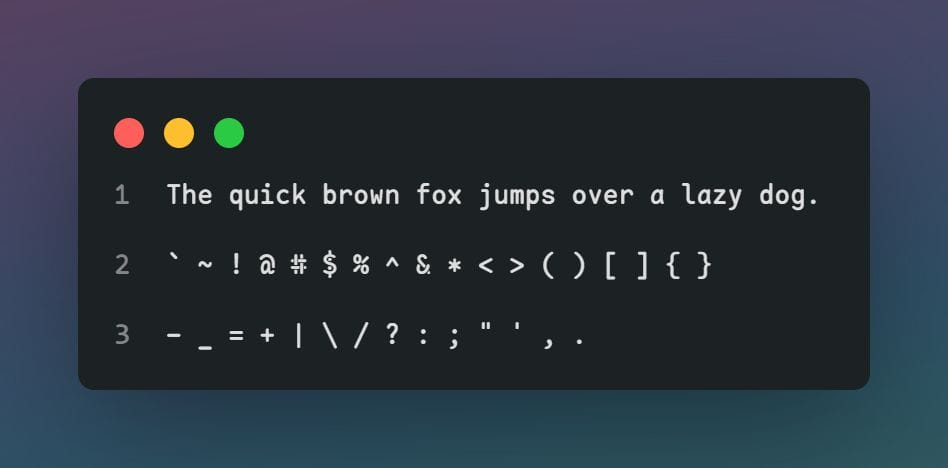
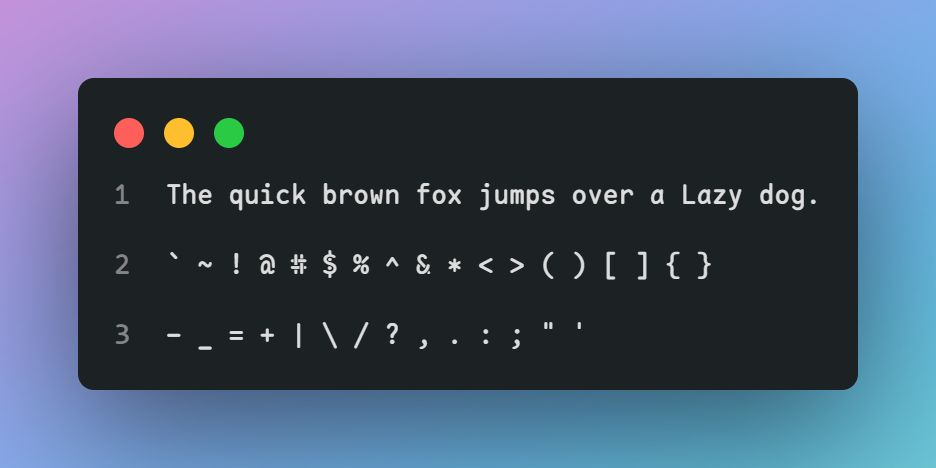
update readme
Former-commit-id: a6a6a1430561980ad50f21868039677fc452887e

diff --git a/README.md b/README.md
@@ -6,24 +6,31 @@ version 2
 
 release
 
+[国内地址](https://gitee.com/subframe7536/Maple/releases/v2.0)
+
 ## only self-use
 
 self-use monospace and sans font with round corner for coding and reading
+
+自用的圆角等宽字体和圆角 UI 字体，用于码代码和系统/浏览器全局
 
 ## Maple Code
 
 simplified programming font, only contains latin. some normal punctuations and arrows and customed icons
 
+精简版的等宽字体，只有英数和一些标点，还有一些自定义的图案
+
 - inspired by [Source Code Pro](https://github.com/adobe-fonts/source-code-pro) and [Fira Code](https://github.com/tonsky/FiraCode)
 
 in version 2, I modify some characters' shape and use [Ligaturizer](https://github.com/ToxicFrog/Ligaturizer) to add some font ligature scripts (remake all ligature characters). And now "=>" will be correctly splited by cursor on VS Code when edit the `XML/HTML` tag
 
-如果需要加入中文(Maple UI 的中文)可以下载 `Maple Code CN`，但是不是 1:2
+用了 Fira Code 的连字脚本，但是具体的字符全都修改过。上一版的问题已经解决。如果需要加入中文(Maple UI 的中文)可以下载 `Maple Code CN`，但是间距不是 1:2
 
 ### sample
 
 ![](img/characters.jpg)
 ![](img/sample.jpg)
+![](img/icons.jpg)
 
 ### ligatures
 
@@ -33,6 +40,8 @@ in version 2, I modify some characters' shape and use [Ligaturizer](https://gith
 
 using Nerd Font to fit console characters
 
+用于控制台的字体，没有中文和连字
+
 ### sample
 
 ![](img/console.jpg)
@@ -41,7 +50,11 @@ using Nerd Font to fit console characters
 
 user interface font based on Google Sans and 中兴正圆, round the corner to look more confortable.
 
+用圆角化的 Google Sans 英数+中兴正圆(汉仪正圆的全字库版)拼起来的字体，字比较粗，配合 Mactype，Windows 上看起来舒服一些
+
 I use it as global font for system ([Mactype](https://github.com/snowie2000/mactype)) and browser ([Temper Monkey scripts](https://github.com/subframe7536/UserScript))
+
+浏览器全局字体替换脚本，有些不适配的可以手动添加
 
 ### sample
 
@@ -51,7 +64,7 @@ I use it as global font for system ([Mactype](https://github.com/snowie2000/mact
 
 ## Maple hand
 
-手写体，クレ pro 英数微调+唐美人汉字部分，目前用在手机端，添加了 I 和 l 的钩笔，增加辨识度
+手写体，クレ pro 英数微调+唐美人汉字部分，目前用在手机端，相比于上一版添加了 I 和 l 的钩笔，增加辨识度
 
 ![](img/%E6%89%8B%E6%9C%BA.jpg)
 
